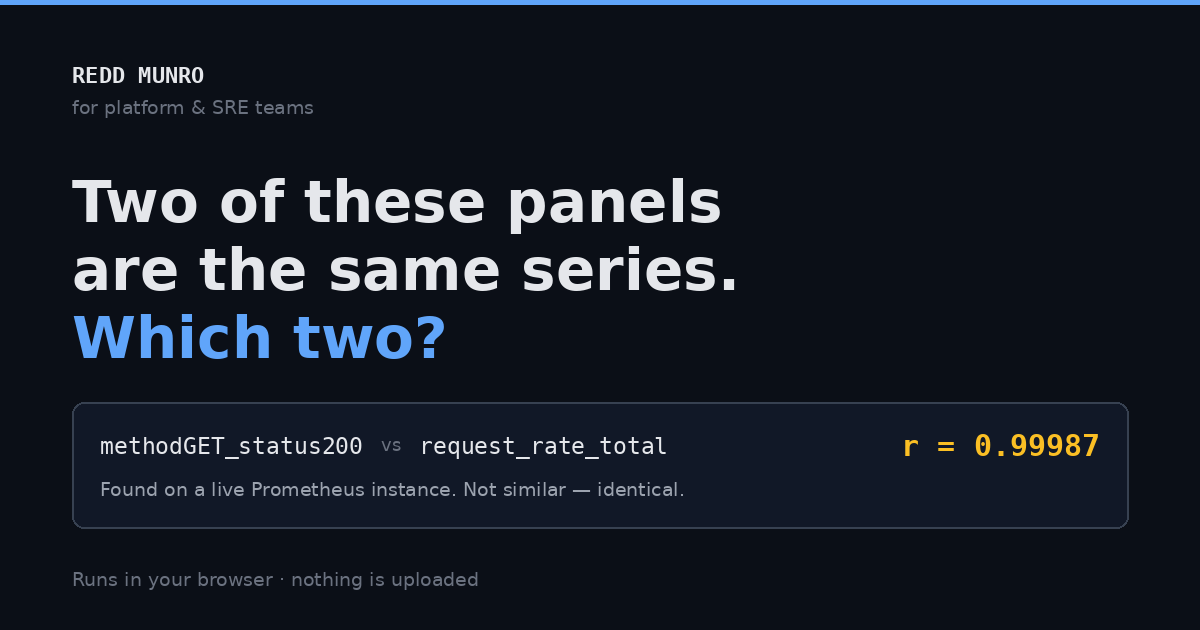
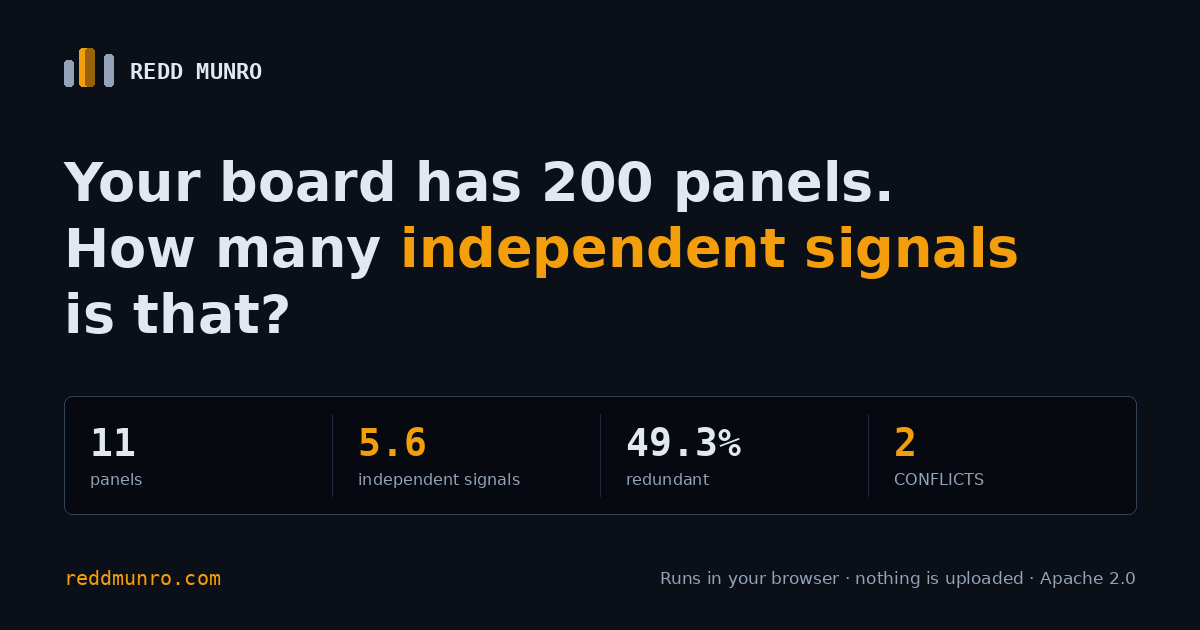
docs: add OUTREACH.md, update og.png social card, register prereg Amendment 1

diff --git a/OUTREACH.md b/OUTREACH.md
@@ -1,0 +1,131 @@
+# Cohort outreach — the note, the reply shape, the record
+
+Operational companion to `ADOPTION_PREREG.md`. The protocol there is
+fixed; this file is how it actually gets asked.
+
+**The one rule: the note must not mention the predictions.** A1 says
+teams stall getting an export into shape. Telling someone that before
+asking where they stopped is not a question, it is a suggestion, and the
+answer stops being evidence. Nothing below names a prediction, a
+suspected friction point, or a hoped-for finding.
+
+---
+
+## 1 · The note
+
+Short on purpose. The recipient is being asked for twenty minutes and a
+reply, by a stranger, about a tool they did not ask for.
+
+> **Subject:** 11 metrics on a live Prometheus box carried 5.6 independent signals
+>
+> Hi [name] —
+>
+> I built an open-source tool that reads a dashboard export and reports
+> how many genuinely independent signals it contains, which panels
+> restate one another, and which are candidates to archive.
+>
+> On the public Prometheus corpus it ships with, 11 metrics carried
+> **5.6 independent signals** — and two of the archive candidates turned
+> out to be behind live alert rules, which is the part I care about.
+>
+> **Nobody has run it on a dashboard they would be paged for.** I am
+> looking for ten teams to do that and tell me what came back. There is
+> nothing to buy, no call, no trial. Apache 2.0, runs locally, nothing
+> is uploaded — it has no network code at all and there is a test that
+> asserts it.
+>
+> ```
+> pip install redd-munro
+> redd run your_export.csv --basis differenced --ordered
+> ```
+>
+> Columns are metrics, rows are timestamps. If you would rather not
+> install anything, the same engine runs in the browser at
+> reddmunro.com.
+>
+> If you try it, three questions — and a one-line answer to each is
+> genuinely enough:
+>
+> 1. **What happened when you ran it?**
+> 2. **Where did you stop?**
+> 3. **Did you do anything as a result?**
+>
+> A reply saying it found nothing, or that you gave up on step one, is
+> as useful to me as a good finding — more so, actually, since I have no
+> shortage of the good kind on public data. Results get written up
+> including the nulls; your team is not named unless you ask to be.
+>
+> — Shaun
+> shaun@reddmunro.com · github.com/bigangusmac67-oss/ReddMunro
+
+### Notes on sending
+
+- **One send, no chase.** The stopping rule counts teams *contacted*;
+  a follow-up nudge changes the response rate and therefore the
+  denominator. If it becomes necessary, record it as a protocol change
+  and score the nudged group separately.
+- **Never edit the three questions per recipient.** Tailoring the
+  wording to what you suspect that team will say is exactly how a
+  registered protocol becomes a leading one.
+- **Record the send** in the sheet below on the day it goes out, before
+  any reply. A denominator assembled afterwards from replies is not a
+  denominator.
+
+---
+
+## 2 · The reply shape
+
+Offered, never required — a form that must be filled is a form that does
+not get filled. Freeform replies are scored the same way by hand.
+
+> Copy this in if it is easier than writing prose:
+>
+> ```
+> 1. What happened when you ran it?
+>
+> 2. Where did you stop?
+>
+> 3. Did you do anything as a result?
+>
+> —— optional, factual ——
+> board size (panels/metrics):
+> audit ran:              yes / no
+> produced a worksheet:   yes / no
+> worksheet rows filled in:
+> ```
+
+The three open questions come first and the factual block second,
+deliberately. The factual questions name specific artefacts — worksheet,
+rows — and asking them first would tell the respondent which parts of
+the process are supposed to matter, contaminating question 2 with the
+answer.
+
+**Do not add checkboxes to question 2.** A list like "☐ could not
+export ☐ worksheet too long" hands over the very answer being measured.
+
+---
+
+## 3 · The record
+
+One row per team **contacted**, filled on the day of sending. Silence is
+an outcome with a row, not a missing row.
+
+| Team | Contacted | Source | Replied | Audit ran | Worksheet | Rows filled | Action taken | Notes |
+|---|---|---|---|---|---|---|---|---|
+
+- **Source** — `site` if they came via reddmunro.com, `direct` if
+  contacted cold. This column exists because of the contamination
+  recorded in `ADOPTION_PREREG.md` Amendment 1: the cohort section of
+  the site publishes prediction A1, so anyone arriving that way has
+  already been told where we expect them to stop. Their answer to
+  question 2 is primed; a `direct` contact's is not. **Score the two
+  groups separately or A1 is not measurable.**
+- **Replied** — `no` is data. It is the outcome A1 and A2 both predict
+  most often, and the one that disappears if only replies are recorded.
+- **Rows filled** — a count, not "some". A2 discriminates on whether it
+  is zero.
+
+**Scored at ten contacted or 90 days, whichever is first** — including
+the case where three replied and seven did not. A response rate that low
+would itself be the finding, and it would say more about the ask than
+about the worksheet.

diff --git a/ADOPTION_PREREG.md b/ADOPTION_PREREG.md
@@ -107,6 +107,40 @@ it would say more about the ask than about the worksheet.
 
 ---
 
+## Amendment 1 — the site contaminates A1, and it was our doing
+
+**Registered before any team was contacted, after noticing it while
+drafting the outreach note.**
+
+The cohort section of reddmunro.com carries this sentence:
+
+> **We predict that is where most of you will stop.**
+
+Publishing A1 was the right call — a page that asks people to check our
+predictions has to show them — but it makes A1 harder to measure on
+exactly the people most likely to volunteer. Anyone who reads the site
+before running the tool **has been told where we expect them to stop**
+before being asked where they stopped. That primes question 2 in both
+directions: some will report the export because it was suggested, others
+will push past it precisely because they were told not to manage it.
+
+There is no clean fix. Removing the sentence would hide a prediction
+from the people being predicted about, which is worse. So:
+
+- **`source` is recorded for every team** — `site` (read the prediction)
+  or `direct` (cold contact, has not). See `OUTREACH.md` §3.
+- **The two groups are scored separately.** A1 is measurable on the
+  `direct` group only. The `site` group is reported, and reported as
+  contaminated.
+- If the `direct` group comes in under five teams, **A1 is recorded as
+  unscoreable rather than scored on a sample that cannot carry it.**
+
+This is a self-inflicted limitation and it is written here rather than
+discovered at scoring time, which is the only thing that makes it worth
+anything.
+
+---
+
 ## Result
 
 *Unscored. No team has run this on a dashboard they care about yet.*
